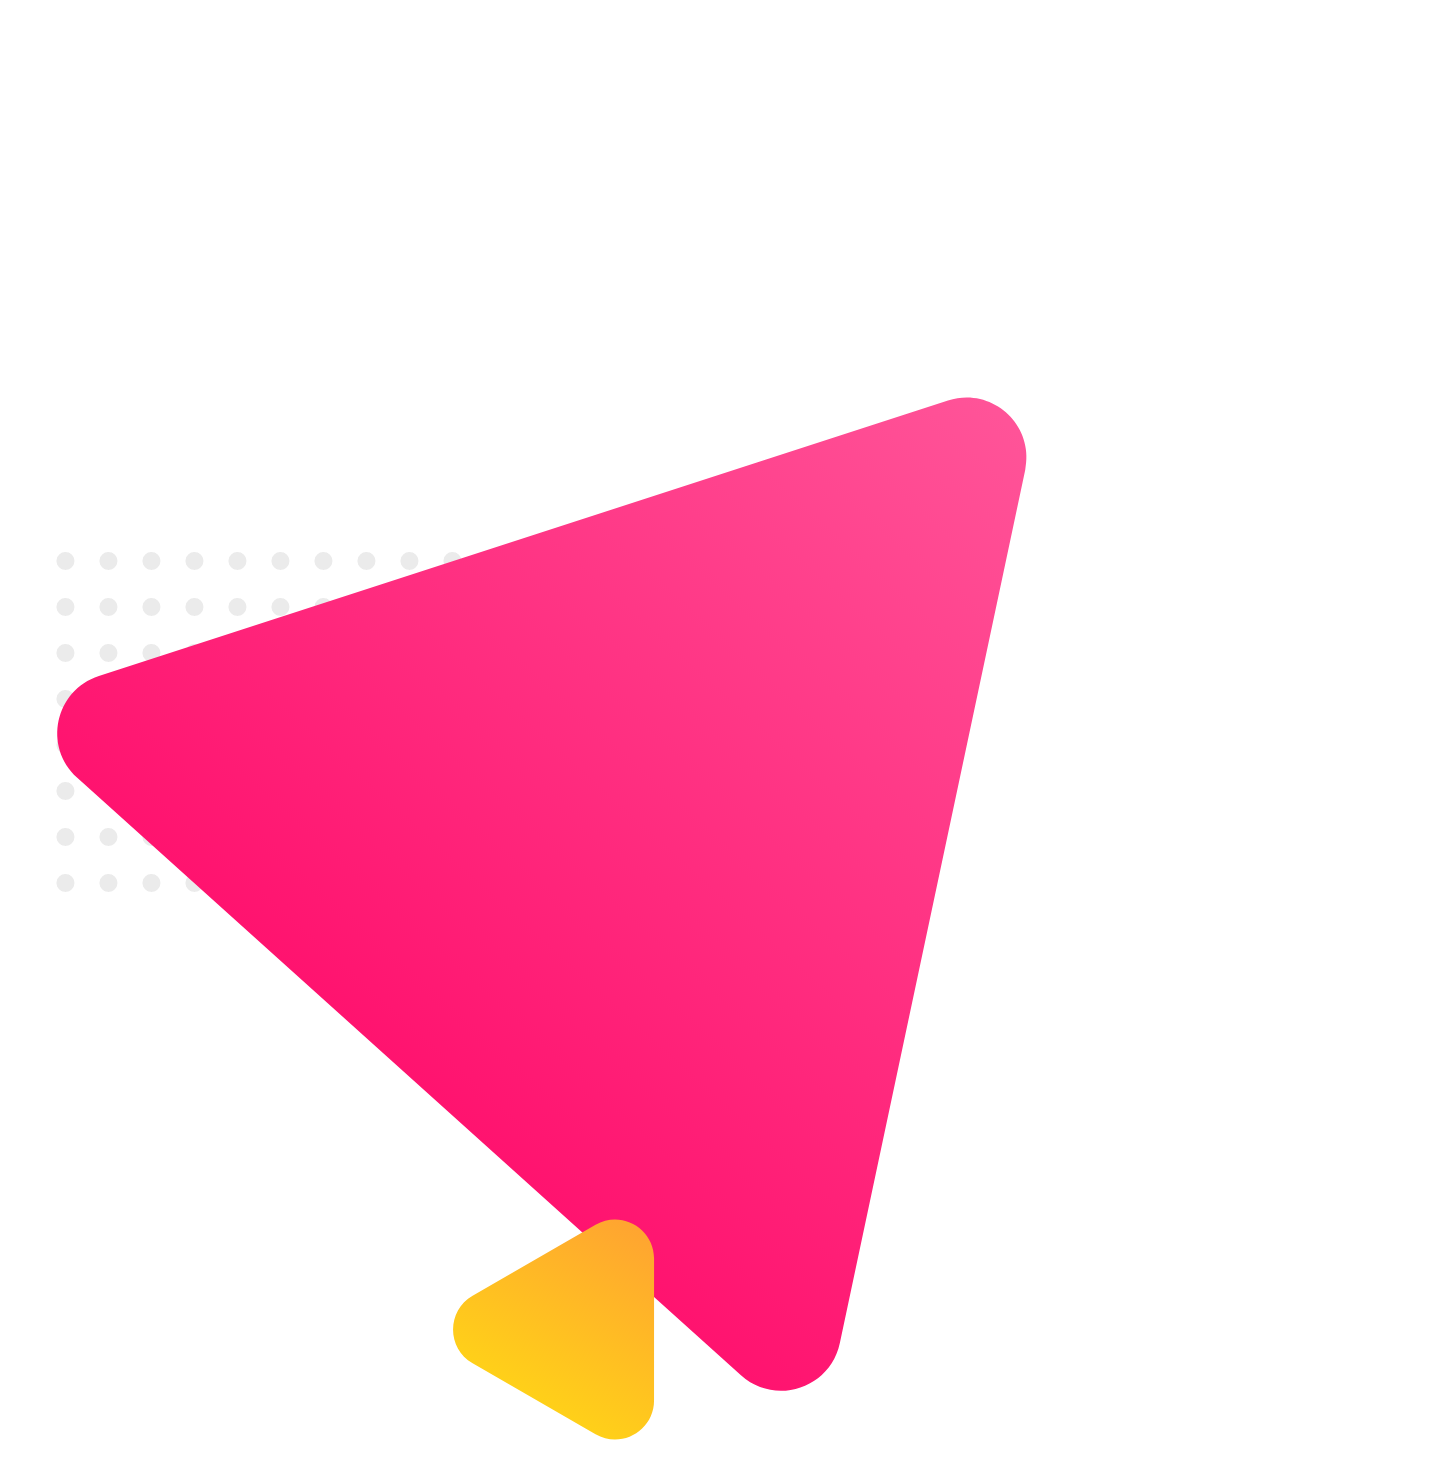
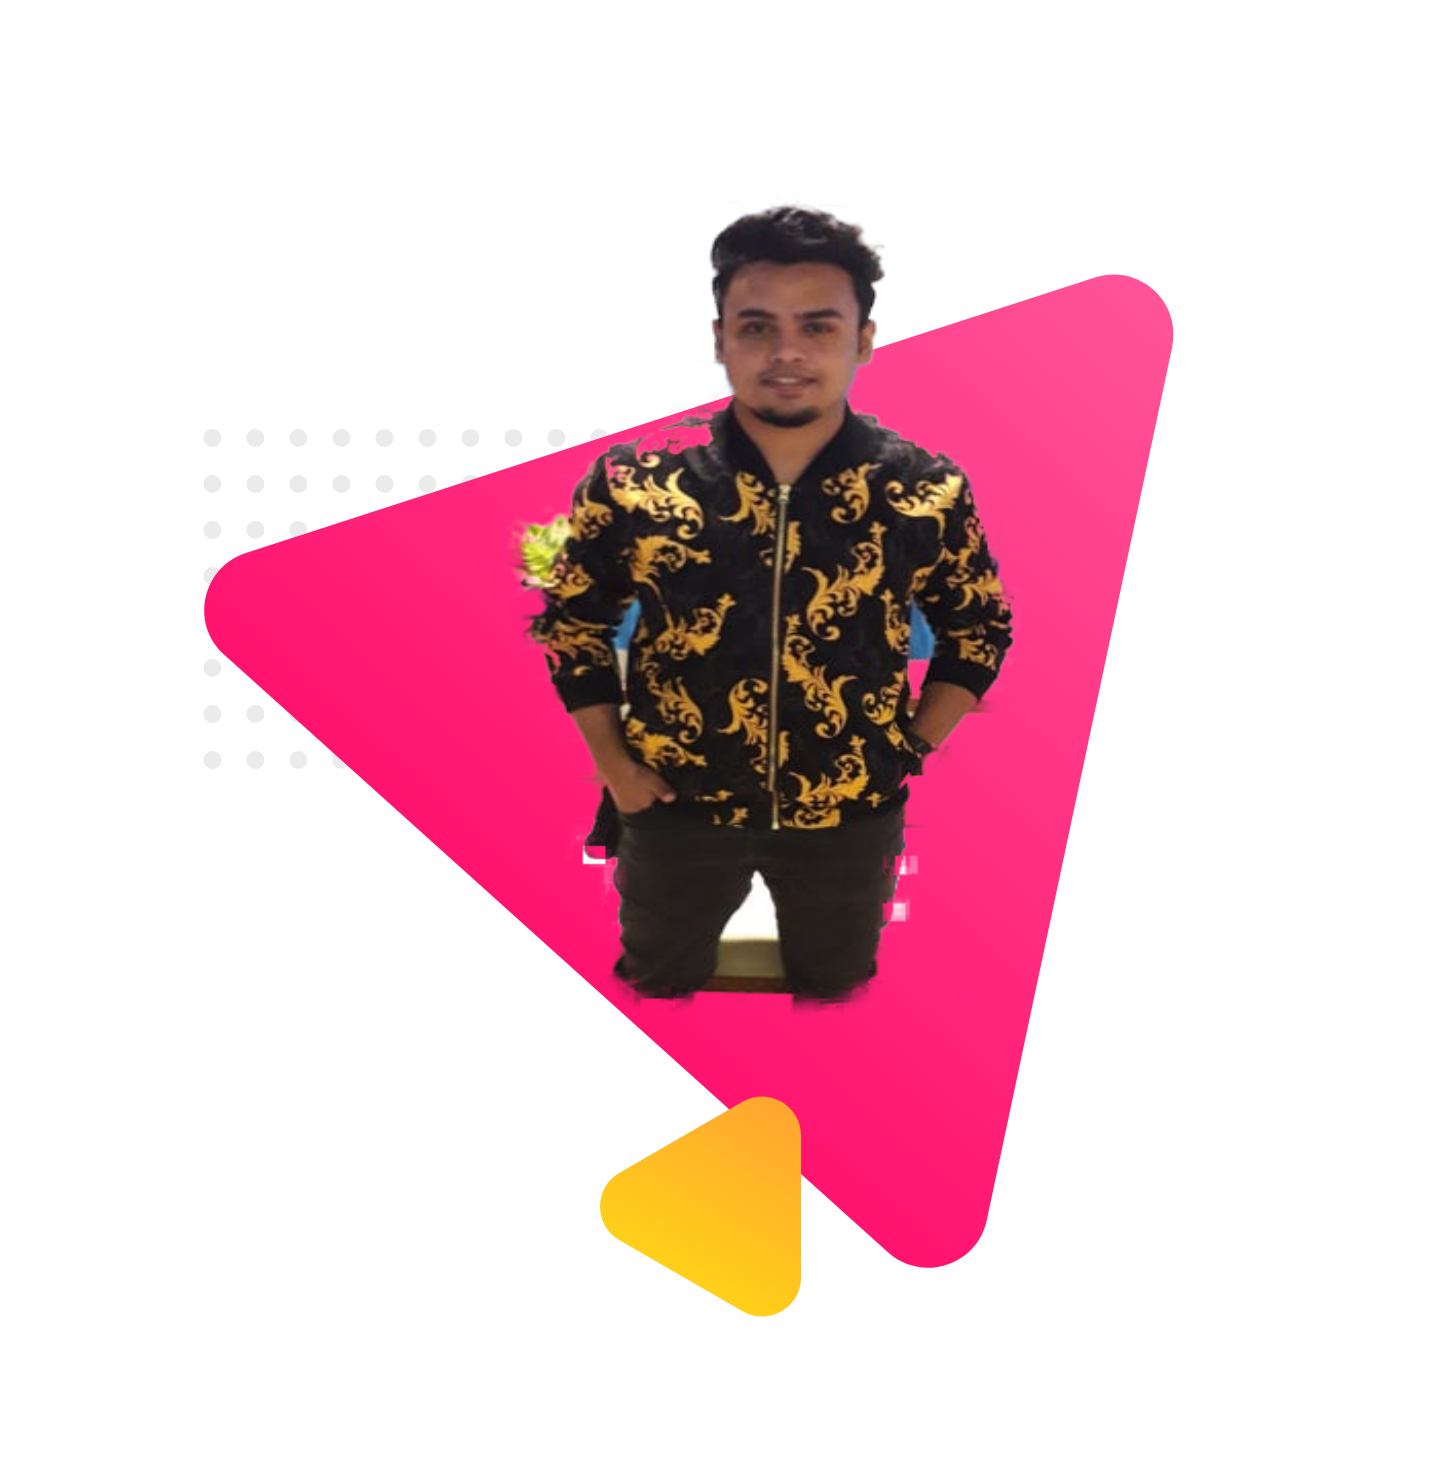
my first ever website project

Changed region(s): [[0.0309, 0.1225, 0.8036, 0.9803]]

diff --git a/style.css b/style.css
@@ -1,0 +1,276 @@
+body
+{
+    font-family: 'Poppins', sans-serif;
+    margin: 0;
+
+}
+
+.half-width h1
+{
+    font-size: 30px;
+    margin-left: 180px;
+    margin-top: 69px;
+        
+}
+
+.name_highlight 
+{
+    color: #F52887;
+    font-size: 35px;    
+}
+
+.half-width p
+{
+    color: gray;
+    font-size: small;
+    margin-left: 180px;
+    margin-top: 22px;
+}
+
+.half-width a
+{
+    margin-left: 180px;
+    margin-top: 22px;
+}
+
+.half-width
+{
+    width: 40%;
+    float: left;
+    margin-left: 4%;
+    margin-top: 10%;    
+}
+
+.half-width img
+{
+    width: 90%;
+    
+}
+
+.top-banner
+{
+    background-image: url(images/header-bg.png);
+    background-repeat: no-repeat;
+    background-size: 95%;
+    background-color: white;     
+}
+
+section
+{
+    height: 500px;
+    padding-bottom: 150px;    
+}
+
+.link-button
+{
+    text-decoration: none;
+    font-size: small;
+    background-image: linear-gradient(180deg,#F660AB, #F52887);
+    color: white;
+    padding: 5px 20px;
+    border-radius: 5px;
+    font-weight: 700;
+}
+
+.biography
+{
+    background-image: url(images/biography-bg.png);
+    background-repeat: no-repeat;
+    background-size: 95%;
+    background-color: white;    
+}
+
+.half-width2
+{
+    width: 40%;
+    float: left;
+    margin-left: 5%;
+    margin-top: 2%;
+}
+
+.half-width2 img
+{
+    width: 110%;    
+}
+
+.half-width2 h2
+{
+    margin-top: 130px;    
+}
+
+.half-width2 p
+{
+    color: gray;
+    font-size: small;
+    margin-top: 33px;
+    margin-right: 30px;
+}
+
+.link-button2
+{
+    text-decoration: none;
+    font-size: small;
+    background-image: linear-gradient(180deg, #F660AB, #F52887);
+    color: white;
+    padding: 5px 20px;
+    border-radius: 5px;
+    font-weight: 700;
+}
+
+.my-latest-work
+{
+    background-image: url(images/latest-work-bg.png);
+    background-repeat: no-repeat;
+    background-size: 95%;
+    background-color: white;
+}
+
+.my-work
+{
+    width: 26%;
+    float: left;
+    margin-left: 1%;
+    margin-right: 1%;
+}
+.my-work img
+{
+    width: 80%;
+    margin-top: 130px;
+    margin-right: 90px;
+    margin-left: 70px;
+}
+
+#latest-work
+{
+    text-align: center;
+    font-weight: bolder;
+    margin-bottom: 60px;
+    margin-top: 60px;
+}
+
+.experience-area
+{
+    width: 95%;
+    margin-top: 120px;
+    background-image: url(images/biography-bg.png);
+    background-repeat: no-repeat;
+    background-size: 100%;
+    background-color: white;
+}
+
+.half-width3
+{
+    width: 40%;
+    float: left;
+    margin-left: 5%;
+    padding-left: 2%;
+}
+
+.half-width3 h3
+{
+    color: orange;
+}
+
+.expe
+{
+    margin-left: 7%;
+}
+
+.single-experience
+{
+    box-shadow: 10px 10px 40px gray;
+    border-radius: 5px;
+    height: 70%;
+    background-color: white;
+}
+
+#full-stack
+{
+    border-left: 7px solid;
+    border-image: linear-gradient(180deg, lightsalmon, tomato);
+    border-image-slice: 1;
+}
+
+#baby-web
+{
+    border-left: 7px solid;
+    border-image: linear-gradient(180deg, blue, cyan);
+    border-image-slice: 1;
+}
+
+.client-feedback
+{
+    width: 95%;
+    text-align: center;
+    background-image: url(images/footer-bg.png);
+    background-repeat: no-repeat;
+    background-size: 95%;
+    background-color: white;
+    margin-bottom: 300px;
+}
+
+.client1
+{
+    color: black;
+    font-size: x-large;
+    font-weight: 900;
+    margin-top: 120px;
+}
+
+.client2
+{
+    margin-top: 110px;
+}
+
+.client2 h4
+{
+    font-size: medium;
+    color: rgb(46, 43, 43);
+    border-top: 50px;
+}
+
+.client2 p
+{
+    font-size: smaller;
+    color: gray;
+    margin-bottom: 50px;
+}
+
+.client3
+{
+    color: rgb(65, 61, 61);
+    font-size: smaller;
+    margin-bottom: 100px;
+}
+
+.client4 p
+{
+    background-image: linear-gradient(180deg, #F660AB ,#F52887); 
+    margin-left: 500px;
+    margin-right: 450px;
+    padding: 10px 15px;
+    border-radius: 5px;
+}
+
+.client4 a
+{
+    text-decoration: none;
+    font-size: medium;
+    color: white;
+}
+.client4 p
+{
+    color: white;
+    font-size: smaller;
+}
+
+.client5
+{
+    color: rgb(170, 146, 146);
+    font-size: smaller;
+    margin-top: 200px;
+}
+
+
+
+

diff --git a/index.html b/index.html
@@ -1,0 +1,107 @@
+<!DOCTYPE html>
+<html lang="en">
+<head>
+
+    <meta charset="UTF-8">
+    <meta name="viewport" content="width=device-width, initial-scale=1.0">
+    <link href="https://fonts.googleapis.com/css2?family=Poppins:wght@600&display=swap" rel="stylesheet">
+    <link rel="stylesheet" href="style.css">
+    <title>Document</title>
+
+</head>
+
+<body>
+    
+    <section class="top-banner">
+        <div class="half-width" >
+            <h1>Hello I'm</h1>
+            <h1><span class="name_highlight">Anik Khan</span></h1>
+            <p>You might saw me playing cricket, climbing buildings, and jumping. But nobody pays me a dime for that work.</p>   
+            <a class="link-button" target="_blank" href="https://www.facebook.com/">HIRE ME</a>
+        </div>
+
+        <div class="half-width">
+            <img src="images/image 16.png" alt="Oh No !!">
+        </div>
+
+    </section>
+
+
+    <section class="biography">
+        <div class="half-width2">
+
+            <img src="images/image 14.png" alt="Oh No !!">
+        </div>
+        <div class="half-width2">
+            <h2>Biography</h2>
+            <p>Lorem Ipsam is simply  dummy text for the printing and typesetting industry.Lorem Ipsum has been the industry's standard dummy text ever since the 1500s,when a unknown printer took a gallery of type and scrambled it to make a type.</p>   
+            <a class="link-button2" target="_blank" href="https://www.facebook.com/">Download CV</a>
+        </div>
+    </section>
+
+
+
+    <section class="my-latest-work">
+        <div id="latest-work">
+            <h3>My Latest Work</h3>
+        </div>
+        <div class="my-work">
+            <img src="images/work-1.png" alt="oh yes !!">
+
+        </div>
+        <div class="my-work">
+            <img src="images/work-2.jpg" alt="oh yee !!">
+        </div>
+        <div class="my-work">
+            <img src="images/work-3.jpg" alt="Ops !!">
+        </div>
+    </section>
+
+</section>
+
+
+<section class="experience-area">
+    <h2 class="expe">Experience</h2>
+
+   <div id="full-stack" class="half-width3 single-experience" >
+       <h2>Full Stack Web Developer</h2>
+       <h3>2020 |Entry Level Developer</h3>
+       <p>I am the master of HTML, CSS and Javascript. I know everything needed to make a website function, efficient. I didn't stop with the web. I am learning most famous Javascript framework Vue JS.I will give you 100% web solution.</p>
+   </div>
+
+   <div id="baby-web" class="half-width3 single-experience"> 
+       <h2>Baby Web Developer</h2>
+       <h3>2019-2020 | Web Development Learner</h3>
+       <p>I have learned HTML5,CSS3,Javascript,Bootstrap,C language,PHP language with in one year.Problem solving is my passion.I am trying to learn various languages and databases from my own.At this point i am tring to get Development Job for growing my carrer.   </p>
+   </div>
+
+
+</section>
+
+
+        <section class="client-feedback">
+            <div class="client1">
+                <h3>What Client are say</h3>
+            </div>
+            <div class="client2">
+                <h4>Bruce Moccy</h4>
+                <p>Founder & CEO Alies</p>
+            </div>
+            <div class="client3">
+                <p>"Lorem Ipsum is simply dummy text of the<br> printing and type setting industry.Lorem Ipsum"</p>
+            </div>
+            <div class="client4">
+                
+                <p>Leave me a message in the <br><br><a id="link-button3" href="" target="_blank">Programming.hero1@gmail.com</a></p>
+                
+            </div>
+            <footer>
+                <div class="client5">Programming hero initiative.&copy; 2020 All rights Reserved</div>
+            </footer>
+
+        </section>
+    
+    
+</body>
+
+</html>
